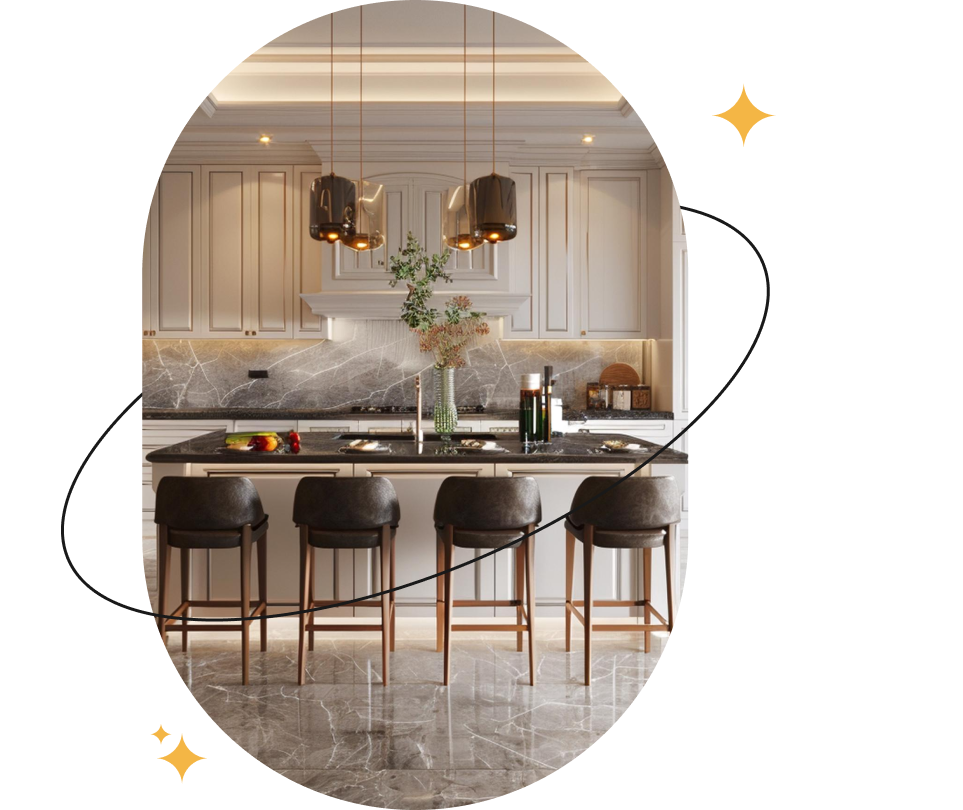
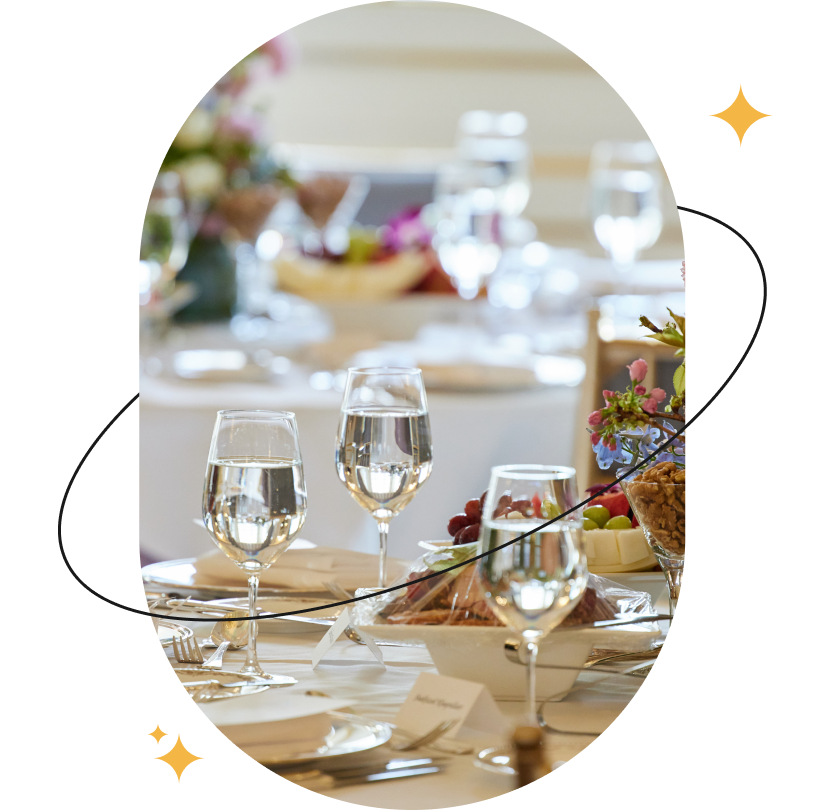
add changes

diff --git a/src/features/main/consulting-service/index.tsx b/src/features/main/consulting-service/index.tsx
@@ -21,10 +21,10 @@ export const ConsultingService = () => {
         <Box className={s.sectionLeft}>
           <Text className={"section-title sm"}>Konsalting xizmati</Text>
           <Text className={"section-subtitle"}>
-            Ko‘p yillik tajribaga ega resterator Bahriddin Chustiy tomonidan
-            ochilgan consulting xizmat — restoran va umumiy ovqatlanish sohasida
-            biznes yaratish, rivojlantirish hamda boshqarishda professional va
-            samarali yechimlar taqdim etadi.
+            Ko‘p yillik tajribaga ega oshpaz va restorator Bahriddin Chustiy
+            tomonidan ochilgan consulting xizmati — restoran va umumiy
+            ovqatlanish sohasida biznes yaratish, rivojlantirish hamda
+            boshqarishda professional va samarali yechimlar taqdim etadi.
           </Text>
           <div className={s.cards}>
             <div className={s.card}>
@@ -83,7 +83,7 @@ export const ConsultingService = () => {
             <b>Bahriddin Chustiy</b> o‘zining oshpazlik faoliyati davomida
             mehmonlarga nafaqat mazali taomlar, balki unutilmas taassurotlar
             taqdim etuvchi restoranlar tarmog‘ini yaratdi.{" "}
-            <b>Oshxona.uz, Chustiy Cuisines, Tez Food, Sal-Sal</b> va{" "}
+            <b>Oshxona.uz, Chustiy Cuisines, Tez Food, Sal-Sal, Parvarda</b> va{" "}
             <b>Aksu</b> restoranlari shaharning turli nuqtalarida mehmonlarni
             doimo ochiq qo‘llar bilan kutib oladi.
           </Text>

diff --git a/src/features/main/books/index.tsx b/src/features/main/books/index.tsx
@@ -50,18 +50,6 @@ export const Books = () => {
             <Text>Kitob 4</Text>
           </div>
         </Carousel.Slide>
-        <Carousel.Slide>
-          <div className={s.card}>
-            <Image className={s.image} src={ImageBook} alt={"ImageBook"} />
-            <Text>Kitob 4</Text>
-          </div>
-        </Carousel.Slide>
-        <Carousel.Slide>
-          <div className={s.card}>
-            <Image className={s.image} src={ImageBook} alt={"ImageBook"} />
-            <Text>Kitob 4</Text>
-          </div>
-        </Carousel.Slide>
       </Carousel>
     </div>
   )

diff --git a/src/app/index.tsx b/src/app/index.tsx
@@ -13,6 +13,7 @@ const App = ({ Component, pageProps }: AppProps) => {
     <>
       <Head>
         <title>chustiy.uz</title>
+        <link rel='icon' href='/favicon.png' />
         <meta
           name="viewport"
           content="width=device-width, initial-scale=1, maximum-scale=1"

diff --git a/src/features/main/main-banner/styles.module.scss b/src/features/main/main-banner/styles.module.scss
@@ -2,6 +2,7 @@
   width: 100%;
   display: flex;
   align-items: center;
+  justify-content: space-between;
   gap: 28px;
   margin-top: 40px;
 

diff --git a/src/shared/styles/global.scss b/src/shared/styles/global.scss
@@ -95,6 +95,7 @@ a {
     }
   }
 
+
   &:disabled {
     color: #667085;
     border-radius: 24px;
